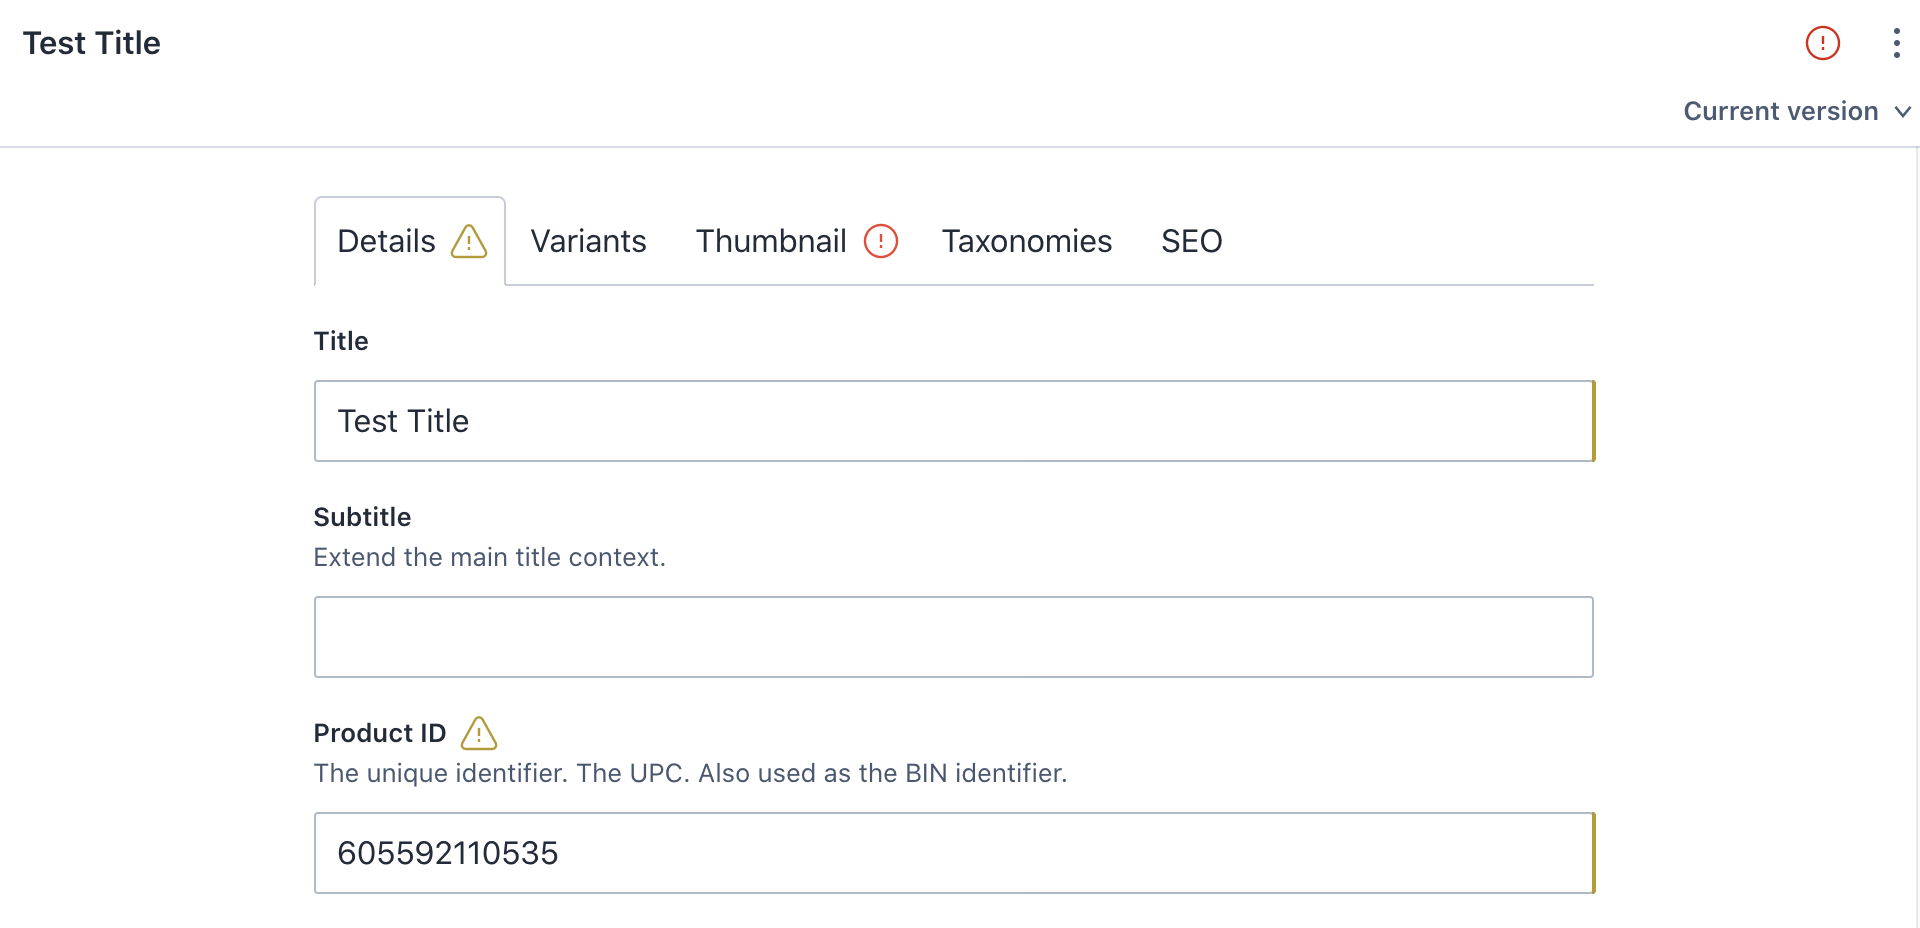
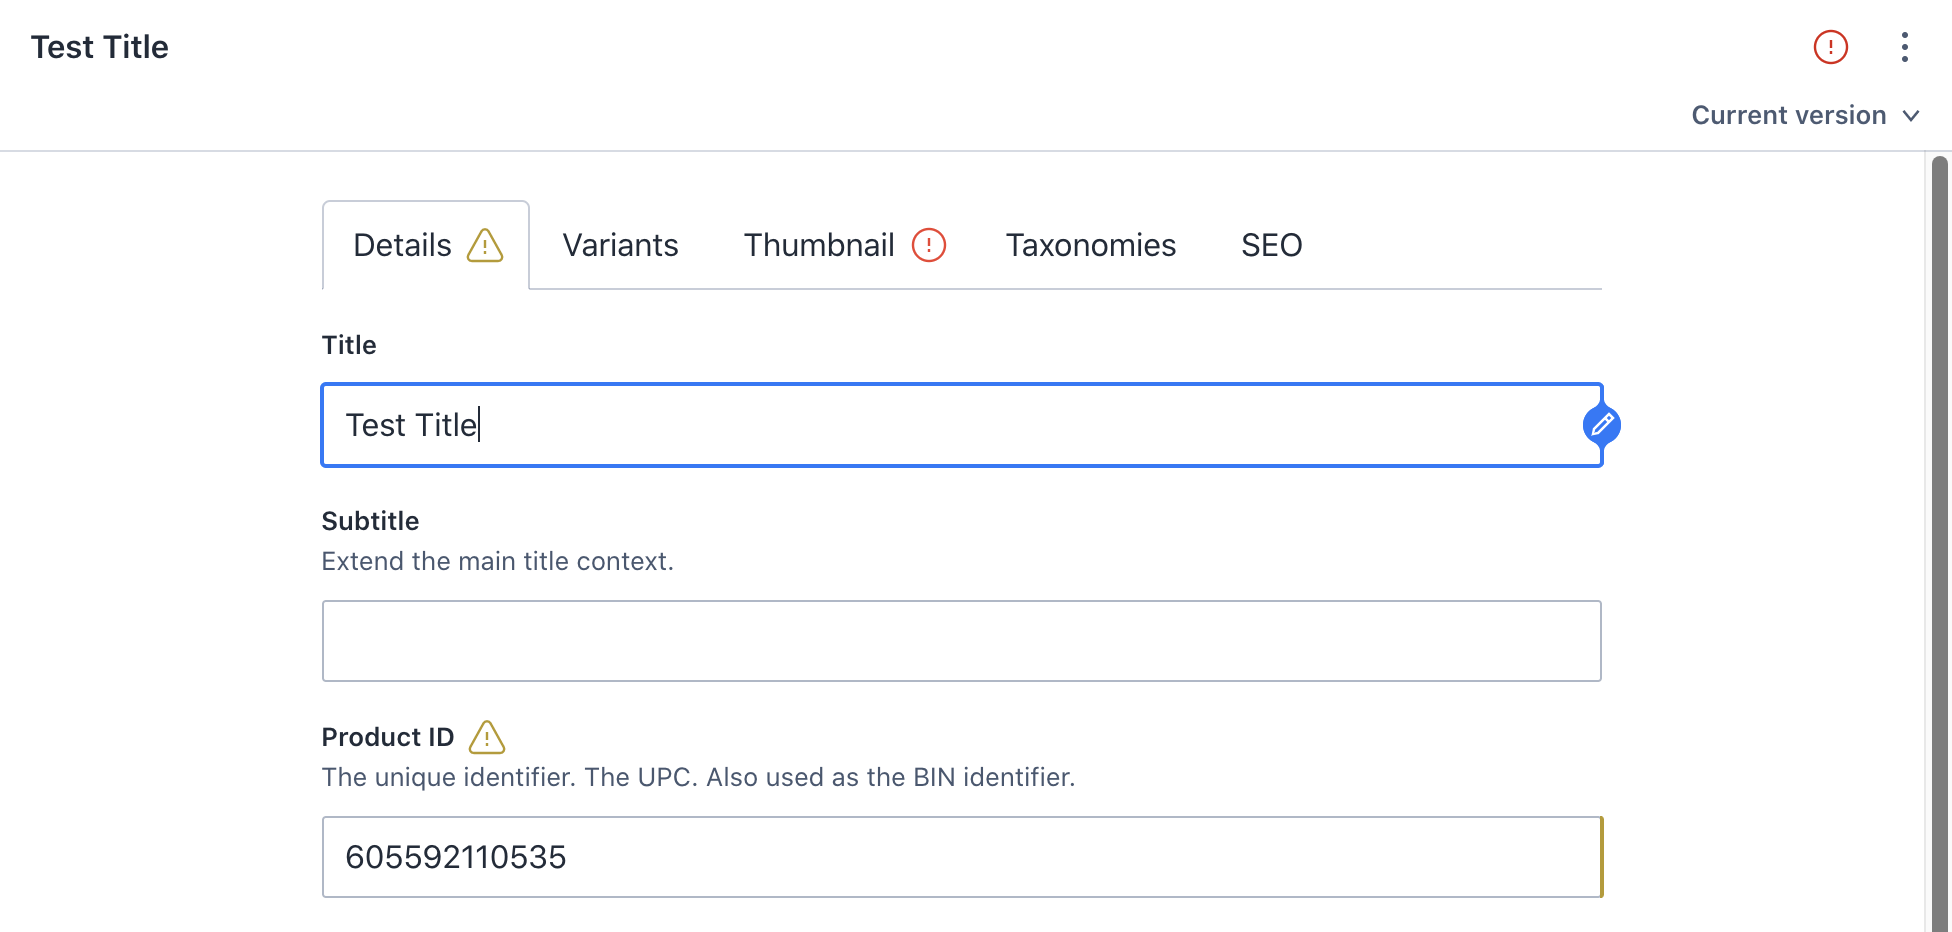
Increase horizontal padding

diff --git a/src/tabs.css b/src/tabs.css
@@ -38,8 +38,9 @@
 
 .tab_inner {
   padding: calc(
-    var(--medium-padding--em) - var(--extra-small-padding--em) - 1px
-  );
+      var(--medium-padding--em) - var(--extra-small-padding--em) - 1px
+    )
+    calc(var(--medium-padding--em) - 1px);
   display: flex;
   align-items: center;
   justify-content: center;
